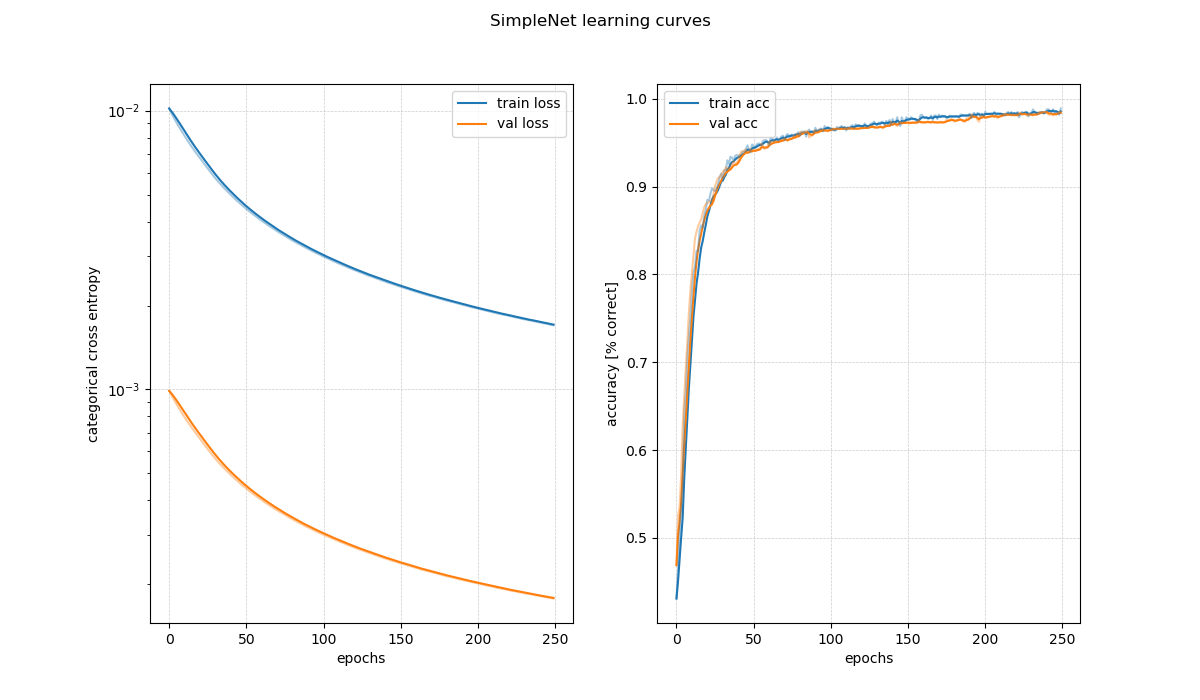
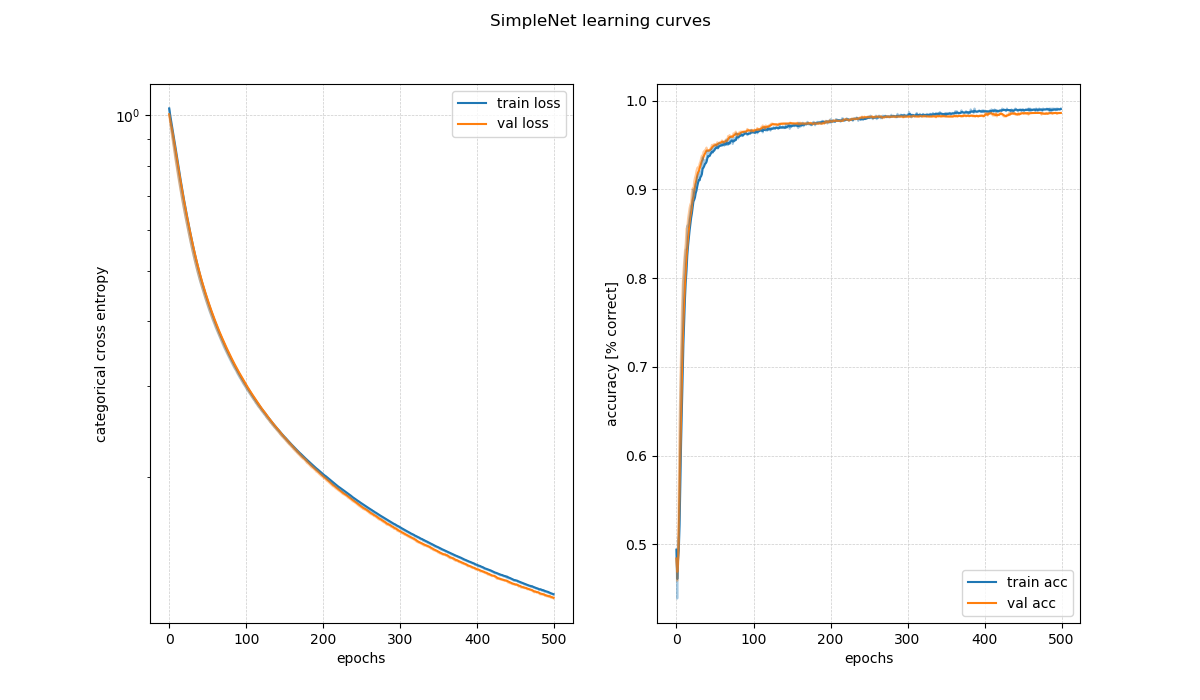
correct a bug in criterion backward + small changes

diff --git a/simplenet/modules.py b/simplenet/modules.py
@@ -1,5 +1,4 @@
 import torch
-import numpy as np
 import math
 
 class Parameter(object):
@@ -29,7 +28,8 @@ class Parameter(object):
 
 
 class Module(object):
-    """Base class for a module."""
+    """Base class for a module.
+    """
     def __init__(self):
         super(Module, self).__init__()
         self.params = {}
@@ -66,7 +66,7 @@ class ReLU(Module):
         super(ReLU, self).__init__()
 
     def forward(self, input):
-        output = input.clamp(0, np.inf)
+        output = input.clamp(min=0)
         self.outputs = output
         return output
 
@@ -100,22 +100,29 @@ class Linear(Module):
         super(Linear, self).__init__()
         self.nb_units = output_dim
         self.input_dims = input_dim
+
         std = math.sqrt(2.0 / (output_dim + input_dim))
+
         ws = torch.zeros(output_dim, input_dim).normal_(0, std) if w_init is None else w_init
+        self.weights = Parameter(ws, name=self.__repr__() + " w")
+
         bs = torch.zeros(output_dim).uniform_(-std, std) if b_init is None else b_init
+        self.bias = Parameter(bs, name=self.__repr__() + " b")
+
         self.params = {
-            'w': Parameter(ws, name=self.__repr__() + " w"),
-            'b': Parameter(bs,  name=self.__repr__() + " b")
+            'w': self.weights,
+            'b': self.bias
         }
 
     def forward(self, input):
         self.activations = input
-        return (input @ self.params['w'].data.t()) + self.params['b'].data
+        out = (input @ self.weights.data.t()) + self.bias.data
+        return out
 
     def backward(self, gradwrtoutput):
-        self.params['b'].add_grad(gradwrtoutput.sum(0))
-        self.params['w'].add_grad(gradwrtoutput.t()@self.activations)
-        g_output = gradwrtoutput@self.params['w'].data
+        self.bias.add_grad(gradwrtoutput.sum(0))
+        self.weights.add_grad(gradwrtoutput.t() @ self.activations)
+        g_output = gradwrtoutput @ self.weights.data
         return g_output
 
     def __repr__(self):

diff --git a/simplenet/training.py b/simplenet/training.py
@@ -78,7 +78,7 @@ class ModelTrainer(object):
                 else:
                     train_correct += (self.y_hat_fun(y_hat) == y_train[batch]).sum()
 
-                train_loss += loss
+                train_loss += loss/len(idxs)
 
             val_loss = np.nan
             val_acc = np.nan
@@ -91,24 +91,24 @@ class ModelTrainer(object):
                 x_test, y_test = validation_data
                 y_hat = self.model.forward(x_test)
                 if self.pytorch_model:
-                    val_loss = self.criterion(*self.criterion_fun(y_hat, y_test)).data[0]/len(x_test)
-                    val_acc = (self.y_hat_fun(y_hat).data==y_test.data).float().sum()/len(x_test)
+                    val_loss = self.criterion(*self.criterion_fun(y_hat, y_test)).data[0]
+                    val_acc = (self.y_hat_fun(y_hat).data==y_test.data).float().sum()/x_test.size()[0]
                 else:
-                    val_loss = self.criterion.forward(*self.criterion_fun(y_hat, y_test))/len(x_test)
-                    val_acc = (self.y_hat_fun(y_hat)==y_test).float().sum()/len(x_test)
+                    val_loss = self.criterion.forward(*self.criterion_fun(y_hat, y_test))
+                    val_acc = (self.y_hat_fun(y_hat)==y_test).float().sum()/x_test.size()[0]
 
 
 
             if self.pytorch_model:
                 self.history.add([
-                    train_loss.data[0]/x_train.size()[0],
+                    train_loss.data[0],
                     train_correct/x_train.size()[0],
                     val_loss,
                     val_acc
                 ])
             else:
                 self.history.add([
-                    train_loss/x_train.shape[0],
+                    train_loss,
                     train_correct/x_train.shape[0],
                     val_loss,
                     val_acc

diff --git a/test.py b/test.py
@@ -14,8 +14,9 @@ def main():
         modules.Tanh()
     )
 
-    train_input, train_target, test_input, test_target = generate_disk_dataset()
-    mt = ModelTrainer(model, criterions.MSELoss(), optimizers.SGD(model.parameters(), lr=0.0001), y_hat_fun=torch.sign)
+    train_input, train_target, test_input, test_target = generate_disk_dataset(1000, 1000)
+    mt = ModelTrainer(model, criterions.MSELoss(), optimizers.SGD(model.parameters(), lr=0.01),
+                      y_hat_fun=torch.sign)
 
     print("\n                     Train SimpleNet model on toy dataset")
     mt.fit((train_input, train_target), (test_input, test_target), epochs=250, batch_size=100, verbose=10)
@@ -32,7 +33,6 @@ def main():
         nn.Tanh()
     )
 
-    train_input, train_target, test_input, test_target = generate_disk_dataset()
     train_input = autograd.Variable(train_input)
     train_target = autograd.Variable(train_target)
     test_input = autograd.Variable(test_input)

diff --git a/tests/criterions_tests.py b/tests/criterions_tests.py
@@ -13,9 +13,9 @@ class CriterionsTest(unittest.TestCase):
         self.y_hat = torch.randn(n, 1)
 
     def test_mseloss_forward(self):
-        tloss = F.mse_loss(self.y_hat, self.targets)
+        tloss = F.mse_loss(torch.autograd.Variable(self.y_hat), torch.autograd.Variable(self.targets))
 
         model = criterions.MSELoss()
         out = model.forward(self.y_hat, self.targets)
         print(out, tloss.data[0])
-        assert(out == tloss.data[0])
+        assert(round(out, 3) == round(tloss.data[0], 3))

diff --git a/datasets_gen.py b/datasets_gen.py
@@ -1,9 +1,9 @@
 import math
 import torch
 
-def generate_disk_dataset():
-    train_input, train_target = _generate_disc_set(1000)
-    test_input, test_target = _generate_disc_set(1000)
+def generate_disk_dataset(samples_train=1000, sample_test=1000):
+    train_input, train_target = _generate_disc_set(samples_train)
+    test_input, test_target = _generate_disc_set(sample_test)
 
     mean, std = train_input.mean(), train_input.std()
 

diff --git a/tests/module_tests.py b/tests/module_tests.py
@@ -28,7 +28,7 @@ class ModulesTest(unittest.TestCase):
         return grad
 
     def test_relu_forward(self):
-        tout = F.relu(self.input)
+        tout = F.relu(torch.autograd.Variable(self.input))
 
         model = ReLU()
         out = model.forward(self.input)

diff --git a/simplenet/criterions.py b/simplenet/criterions.py
@@ -29,4 +29,4 @@ class MSELoss(Criterion):
         return ((y_hat-target)**2).mean()
 
     def backward(self):
-        return 2.0*(self.y_hat-self.target)
+        return (2.0/self.target.shape[0])*(self.y_hat-self.target)
